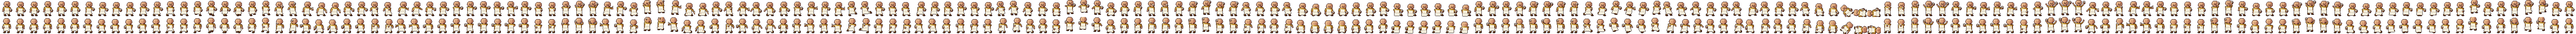
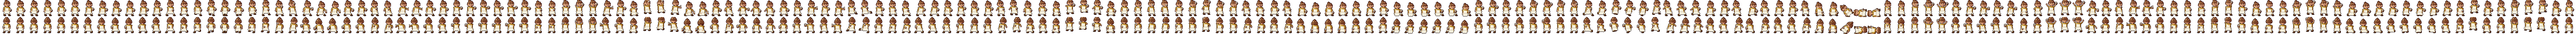
fix(tactics-art): Bree Tallow, the innkeeper, is a stout woman with a chestnut bun
The innkeeper preset was built as a man (large build, moustache, no hair), so
every one of Bree's six portrait moods read as a bald man. She is the only user
of the preset, so the recipe now uses the large build's feminine form, a bun in
chestnut, and no beard; apron, tankard and cloth are unchanged. Rebuilt with
build.py characters portraits: only her sheet, portraits, the palette's hair
colour and two previews change.

Claude-Session: https://claude.ai/code/session_01UZNTTTSTVdmDpmHb6bGDGn

Changed region(s): [[0.0, 0.0, 1.0, 1.0]]

diff --git a/tools/tactics-assets/parts/recipes.py b/tools/tactics-assets/parts/recipes.py
@@ -180,10 +180,11 @@ NPCS = [
         "weapon": "scroll", "hands": "bare", "cape": "short_cape"},
        {"skin": "skin/fair", "hair": "hair/white", "cloth1": "cloth/wine", "cloth2": "cloth/ivory",
         "trim": "metal/gold"}, "npc"),
-    _r("innkeeper", "Innkeeper", "large",
-       {"body": "human", "beard": "moustache", "torso": "apron", "legs": "pants", "feet": "boots",
+    # Bree Tallow, the lore's innkeeper: a stout, warm woman in middle age, so the large build's feminine form.
+    _r("innkeeper", "Innkeeper", "large_f",
+       {"body": "human", "hair": "bun", "torso": "apron", "legs": "pants", "feet": "boots",
         "weapon": "tankard", "hands": "bare"},
-       {"skin": "skin/tan", "hair": "hair/brown", "cloth1": "cloth/ochre", "cloth2": "cloth/ivory"}, "npc"),
+       {"skin": "skin/tan", "hair": "hair/chestnut", "cloth1": "cloth/ochre", "cloth2": "cloth/ivory"}, "npc"),
     _r("barmaid", "Barmaid", "standard_f",
        {"body": "human", "hair": "bun", "torso": "dress", "legs": "skirt", "feet": "boots", "weapon": "tankard",
         "hands": "bare"},
